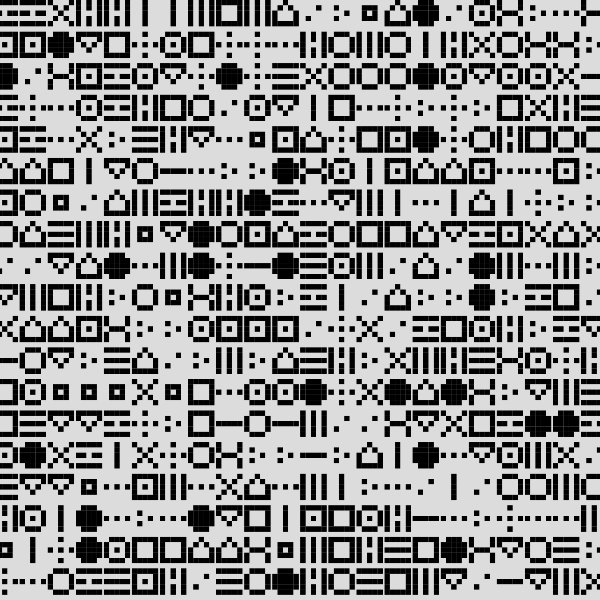
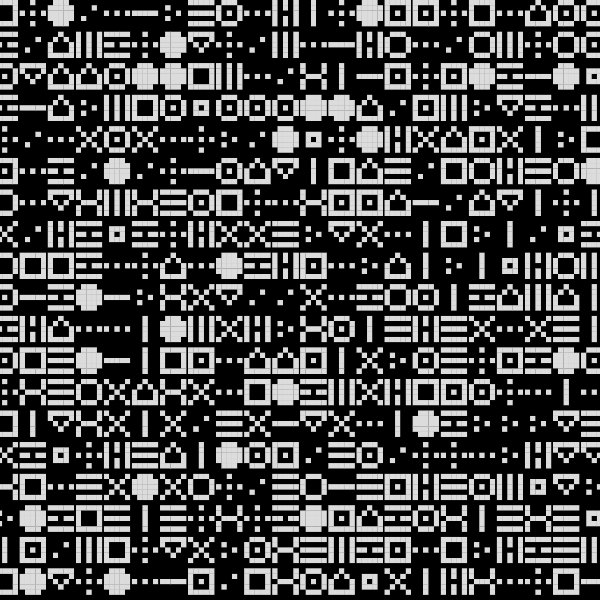
feat: quick artwork cuts, artwork and overlay tweaks
- About one switch in four gives the artwork a 6-20 s run (still holds 30 s
  after a deck touch), so sometimes the screen cuts fast.
- Passbook on black; Patterns 2 inverted; Self Avoiding Walk on black in
  cyan, ice, steel and violet with one orange line.
- Listener poster smaller and plain white at 60%.
- VHS Tracking's noise lines at a third of their brightness.
- Pixelate averages a 3x3 spread per block, so stacked with Scanlines the
  blocks no longer flicker and band.

diff --git a/public/visuals/filters.js b/public/visuals/filters.js
@@ -76,7 +76,7 @@ const canvasFilters = (() => {
       vec3 c = vec3(texture2D(uTex, uv + vec2(b, 0.0)).r, texture2D(uTex, uv).g, texture2D(uTex, uv - vec2(b, 0.0)).b);
       c = mix(c, vec3(luma(c)), 0.25);
       float noise = step(0.995 - uP1 * 0.01, hash(vec2(floor(vUv.y * uRes.y / uScale), tick)));
-      return vec4(c + noise * 0.5, 1.0);` },
+      return vec4(c + noise * 0.16, 1.0);` },
 
     { key: 6, name: 'Posterize', params: [['levels', 0.5], ['mono', 0.0]], body: `
       vec4 c = texture2D(uTex, vUv);
@@ -87,8 +87,13 @@ const canvasFilters = (() => {
     { key: 7, name: 'Pixelate', params: [['size', 0.3], ['stretch', 0.0]], body: `
       float s = mix(4.0, 64.0, uP1 * uP1) * uScale;
       vec2 cell = vec2(s * (1.0 + uP2 * 4.0), s);
-      vec2 q = (floor(vUv * uRes / cell) + 0.5) * cell;
-      return texture2D(uTex, q / uRes);` },
+      // Average a 3x3 spread over the block, not one sample: a single tap
+      // lands on a scanline or a gap and the blocks flicker and band.
+      vec2 o = floor(vUv * uRes / cell) * cell;
+      vec4 acc = vec4(0.0);
+      for (int i = 0; i < 3; i++) for (int j = 0; j < 3; j++)
+        acc += texture2D(uTex, (o + (vec2(float(i), float(j)) + 0.5) / 3.0 * cell) / uRes);
+      return acc / 9.0;` },
 
     { key: 8, name: 'Color Invert', params: [['solarize', 0.0], ['hue', 0.0]], body: `
       vec4 c = texture2D(uTex, vUv);

diff --git a/public/visuals/self_avoiding_walk_3d.js b/public/visuals/self_avoiding_walk_3d.js
@@ -15,12 +15,12 @@ visuals.register('self_avoiding_walk_3d', (() => {
     myP5 = new p5((p) => {
       const spacing = 48;
       const BRANCH_COLORS = [
-        [34, 75, 83],    // deep teal
-        [160, 168, 176], // silver grey
-        [175, 96, 117],  // dusty rose
-        [160, 173, 162], // sage
-        [232, 230, 227], // warm white
-        [110, 106, 95],  // taupe
+        [70, 170, 205],  // cyan
+        [150, 200, 230], // ice blue
+        [100, 120, 160], // steel
+        [120, 105, 210], // cold violet
+        [215, 232, 242], // cold white
+        [255, 90, 31],   // station orange, the one warm line
       ];
       let colorIdx = 0;
       let cols, rows, depth;
@@ -120,7 +120,7 @@ visuals.register('self_avoiding_walk_3d', (() => {
       };
 
       p.draw = () => {
-        p.background('#d8d4cb');
+        p.background(0);
 
         const minXYZ = { x: Infinity, y: Infinity, z: Infinity };
         const maxXYZ = { x: 0, y: 0, z: 0 };
@@ -167,7 +167,7 @@ visuals.register('self_avoiding_walk_3d', (() => {
           const v1 = path[i];
           const v2 = path[i + 1];
           const c = v2.branchColor || BRANCH_COLORS[0];
-          p.stroke(c[0], c[1], c[2], 160);
+          p.stroke(c[0], c[1], c[2], 210);
           p.strokeWeight(4);
           p.line(v1.x, v1.y, v1.z, v2.x, v2.y, v2.z);
         }

diff --git a/public/listener.js b/public/listener.js
@@ -170,8 +170,8 @@ const listenerReport = (() => {
     const rows = lines();
     // One font size for everything, as large as the longest line allows.
     const longest = Math.max(...rows.map((r) => r[0].length + (r[2] ? r[2].length + 3 : 0)));
-    const byWidth = (innerWidth * 0.92) / (longest * 0.6);
-    const byHeight = (innerHeight * 0.88) / (rows.length * 1.02);
+    const byWidth = (innerWidth * 0.75) / (longest * 0.6);
+    const byHeight = (innerHeight * 0.72) / (rows.length * 1.02);
     el.style.setProperty('--fs', `${Math.floor(Math.min(byWidth, byHeight))}px`);
     el.innerHTML = rows.map(([text, align, right], i) => {
       const cls = align === 'c' ? 'lr-row lr-label' : 'lr-row';
@@ -196,9 +196,6 @@ const listenerReport = (() => {
   function show() {
     render();
     el.classList.remove('lr-on');
-    // White inverted over the artwork, or phosphor green.
-    el.classList.toggle('lr-green', Math.random() < 0.4);
-    el.classList.toggle('lr-mono', !el.classList.contains('lr-green'));
     clearTimeout(el._hide);
     flicker(true, () => { el._hide = setTimeout(() => flicker(false), SHOW_MS); });
   }

diff --git a/public/app.js b/public/app.js
@@ -976,9 +976,17 @@ let audioAnalysisReady = false;
   // (and the per-visual preset) applies to every switch, not just gallery
   // clicks. random() relies on the boolean result.
   const origActivate = visuals.activate;
+  // Now and then an artwork gets a short run (6-20 s) so the screen cuts fast
+  // for a while; it still waits out the 30 s after the listener touches
+  // anything.
+  let quickCut = 0;
   visuals.activate = function(id) {
     gallery.saveCurrentPreset();
     const ok = origActivate.call(visuals, id);
+    if (ok) {
+      clearTimeout(quickCut);
+      if (Math.random() < 0.25) quickCut = setTimeout(() => gallery.whenQuiet(() => visuals.random()), 6000 + Math.random() * 14000);
+    }
     updateTrackInfo();
     if (ok) {
       gallery.loadPreset(id);

diff --git a/public/style.css b/public/style.css
@@ -1106,7 +1106,7 @@ body.prewarming #block-canvas {
   position: fixed;
   inset: 0;
   z-index: 6;
-  color: #f2f2ee;
+  color: rgba(255, 255, 255, 0.6);
   font-family: "Anka Coder", "IBM Plex Mono", "Courier New", monospace;
   font-weight: 400;
   font-size: var(--fs, 64px);
@@ -1120,17 +1120,6 @@ body.prewarming #block-canvas {
   pointer-events: none;
   opacity: 0;
   visibility: hidden;
-}
-
-/* Over the artwork: white inverted against whatever is underneath (black on
-   light, white on dark), or phosphor green. */
-#listener-report.lr-mono {
-  color: rgba(255, 255, 255, 0.55);
-  mix-blend-mode: difference;
-}
-
-#listener-report.lr-green {
-  color: rgba(57, 255, 106, 0.55);
 }
 
 /* Flashes: on and off with no fade, like a signal cutting in. */

diff --git a/public/visuals/patterns2.js b/public/visuals/patterns2.js
@@ -239,8 +239,8 @@ visuals.register('patterns2', (() => {
       };
 
       p.draw = () => {
-        p.background(220);
-        p.fill(0);
+        p.background(0);
+        p.fill(220);
         p.noStroke();
 
         // Cutoff sets the resting grid: low = fine (64 cols), high = coarse (16)

diff --git a/public/visuals/passbook_cam.js b/public/visuals/passbook_cam.js
@@ -250,7 +250,7 @@ visuals.register('passbook_cam', (() => {
         const now = p.millis();
         const W = p.width;
         const H = p.height;
-        p.background('#d9d6cf');
+        p.background(0);
 
         const grid = sample(now);
         history.push([now, grid]);
